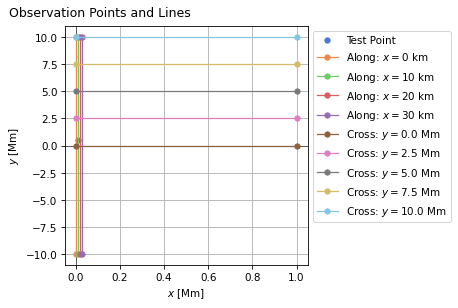
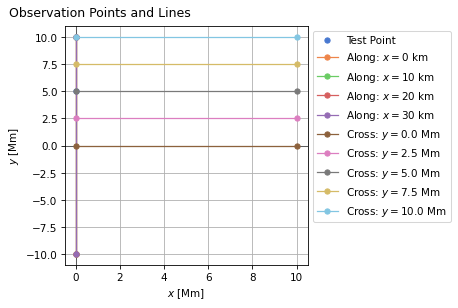
update obs scales

diff --git a/functions/observations.py b/functions/observations.py
@@ -64,15 +64,19 @@ class ObservationPoint:
     def plot(
         self,
         ax: plt.Axes,
+        scale_factor: Numeric = 1.0,
     ) -> plt.Axes:
         """Plot point on an existing Axes object
 
         Input:
             ax:     existing Axes object
+
+        Options:
+            scale_factor:   scale factor for coordinates
         """
         ax.plot(
-            self.x / 1e6,
-            self.y / 1e6,
+            self.x / scale_factor,
+            self.y / scale_factor,
             "o",
             markersize=5,
             label=self.name,
@@ -127,15 +131,19 @@ class ObservationCrossSection:
     def plot(
         self,
         ax: plt.Axes,
+        scale_factor: Numeric = 1.0,
     ) -> plt.Axes:
         """Plot lines on an existing Axes object
 
         Input:
-            ax:     existing Axes object
+            ax:             existing Axes object
+
+        Options:
+            scale_factor:   scale factor for coordinates
         """
         ax.plot(
-            self.x / 1e6,
-            self.y / 1e6,
+            self.x / scale_factor,
+            self.y / scale_factor,
             "-o",
             markersize=5,
             linewidth=1.2,
@@ -218,6 +226,7 @@ def plot_observations(
     data: npt.ArrayLike,
     savename: str,
     keep_open: bool = False,
+    scale: str = "Mm",
 ) -> plt.Figure:
     """Visualise observation points and lines
 
@@ -227,8 +236,27 @@ def plot_observations(
     Options:
         `savename`:     name of figure
         `keep_open`:    keep figures open after finishing
+        `scale`:        scale of plots ('m', 'km' or 'Mm')
     """
     t0 = time.perf_counter_ns()
+
+    unit: str
+    scale_factor: float
+
+    match scale:
+        case "m":
+            unit = "m"
+            scale_factor = 1e0
+        case "km":
+            unit = "km"
+            scale_factor = 1e3
+        case "Mm":
+            unit = "Mm"
+            scale_factor = 1e6
+        case _:
+            raise ValueError(
+                f"Scale should be either 'm', 'km', or 'Mm', instead of '{scale}'"
+            )
 
     # Figure
     fig, ax = plt.subplots(1, 1)
@@ -243,13 +271,13 @@ def plot_observations(
 
     ## Points and lines
     for element in data:
-        ax = element.plot(ax)
+        ax = element.plot(ax, scale_factor=scale_factor)
 
     # Layout part 2
     ax.grid()
     ax.legend(loc="upper left", bbox_to_anchor=(1, 1))
-    ax.set_xlabel("$x$ [Mm]")
-    ax.set_ylabel("$y$ [Mm]")
+    ax.set_xlabel(f"$x$ [{unit}]")
+    ax.set_ylabel(f"$y$ [{unit}]")
 
     # End
     fig.get_layout_engine().execute(fig)
@@ -270,40 +298,40 @@ if __name__ == "__main__":
         name="Center",
         x=0,
         y=0,
-        scale=1e5,
+        scale=1e2,
     )
     obs_1 = ObservationPoint(
         name="Point",
         x=1.2,
         y=1.8,
-        scale=1e5,
+        scale=1e2,
     )
     obs_2 = ObservationCrossSection(
         name="Line",
         x=[-2.5, 2.5],
         y=[3, 3],
-        scale=1e5,
+        scale=1e2,
     )
     obs_3 = ObservationCrossSection(
         name="Diagonal",
         x=[-2, 3],
         y=[-4, 1],
-        scale=1e5,
+        scale=1e2,
     )
     obs_4 = ObservationCrossSection(
         name="Curve",
         x=[-3, -1.5, -1, 0, -1, -2, -3.5],
         y=[-3, -2.5, -2, 1, 2, 2, 1.5],
-        scale=1e5,
+        scale=1e2,
     )
     obs_5 = ObservationCrossSection(
         name="Square",
         x=[-4, -4, 4, 4],
         y=[-4, 4, 4, -4],
-        scale=1e5,
+        scale=1e2,
     )
 
     data = [obs_0, obs_1, obs_2, obs_3, obs_4, obs_5]
 
     write_observations(data, filename=obs_file)
-    plot_observations(data, savename=obs_file)
+    plot_observations(data, savename=obs_file, scale="km")

diff --git a/reproduction-an-2012/create_observations.py b/reproduction-an-2012/create_observations.py
@@ -13,7 +13,7 @@ import functions.observations as fo
 
 # Parameters
 x_min = 0.0
-x_max = 1e6
+x_max = 1e7
 
 y_min = -1e7
 y_max = +1e7
@@ -53,6 +53,6 @@ for i in range(5):
         )
     )
 
-fo.write_observations(obs, filename=f"{obs_dir}/repr_00")
-fo.plot_observations(obs, savename=f"{obs_dir}/repr_00")
+fo.write_observations(obs, filename=f"{obs_dir}/repr_00",)
+fo.plot_observations(obs, savename=f"{obs_dir}/repr_00", scale="Mm",)
 print("Finished creating observation-files")

diff --git a/thesis/create_observations.py b/thesis/create_observations.py
@@ -53,6 +53,6 @@ for i in range(5):
         )
     )
 
-fo.write_observations(obs, filename=f"{obs_dir}/exp_00")
-fo.plot_observations(obs, savename=f"{obs_dir}/exp_00")
+fo.write_observations(obs, filename=f"{obs_dir}/exp_00",)
+fo.plot_observations(obs, savename=f"{obs_dir}/exp_00", scale="Mm",)
 print("Finished creating observation-files")
